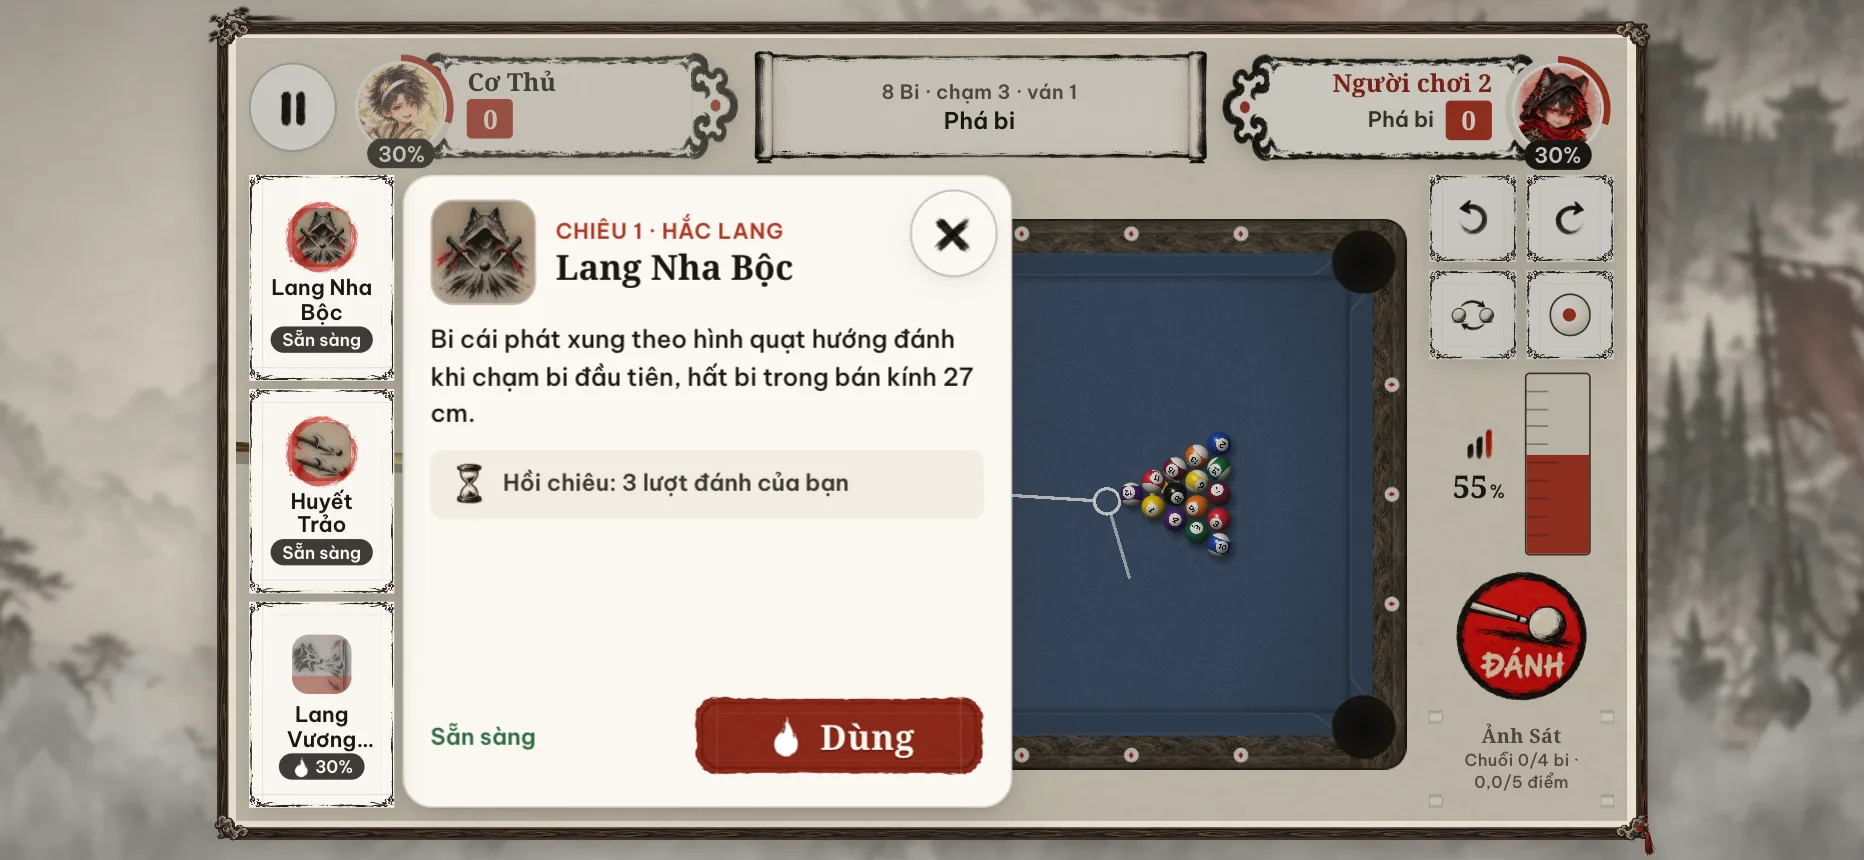
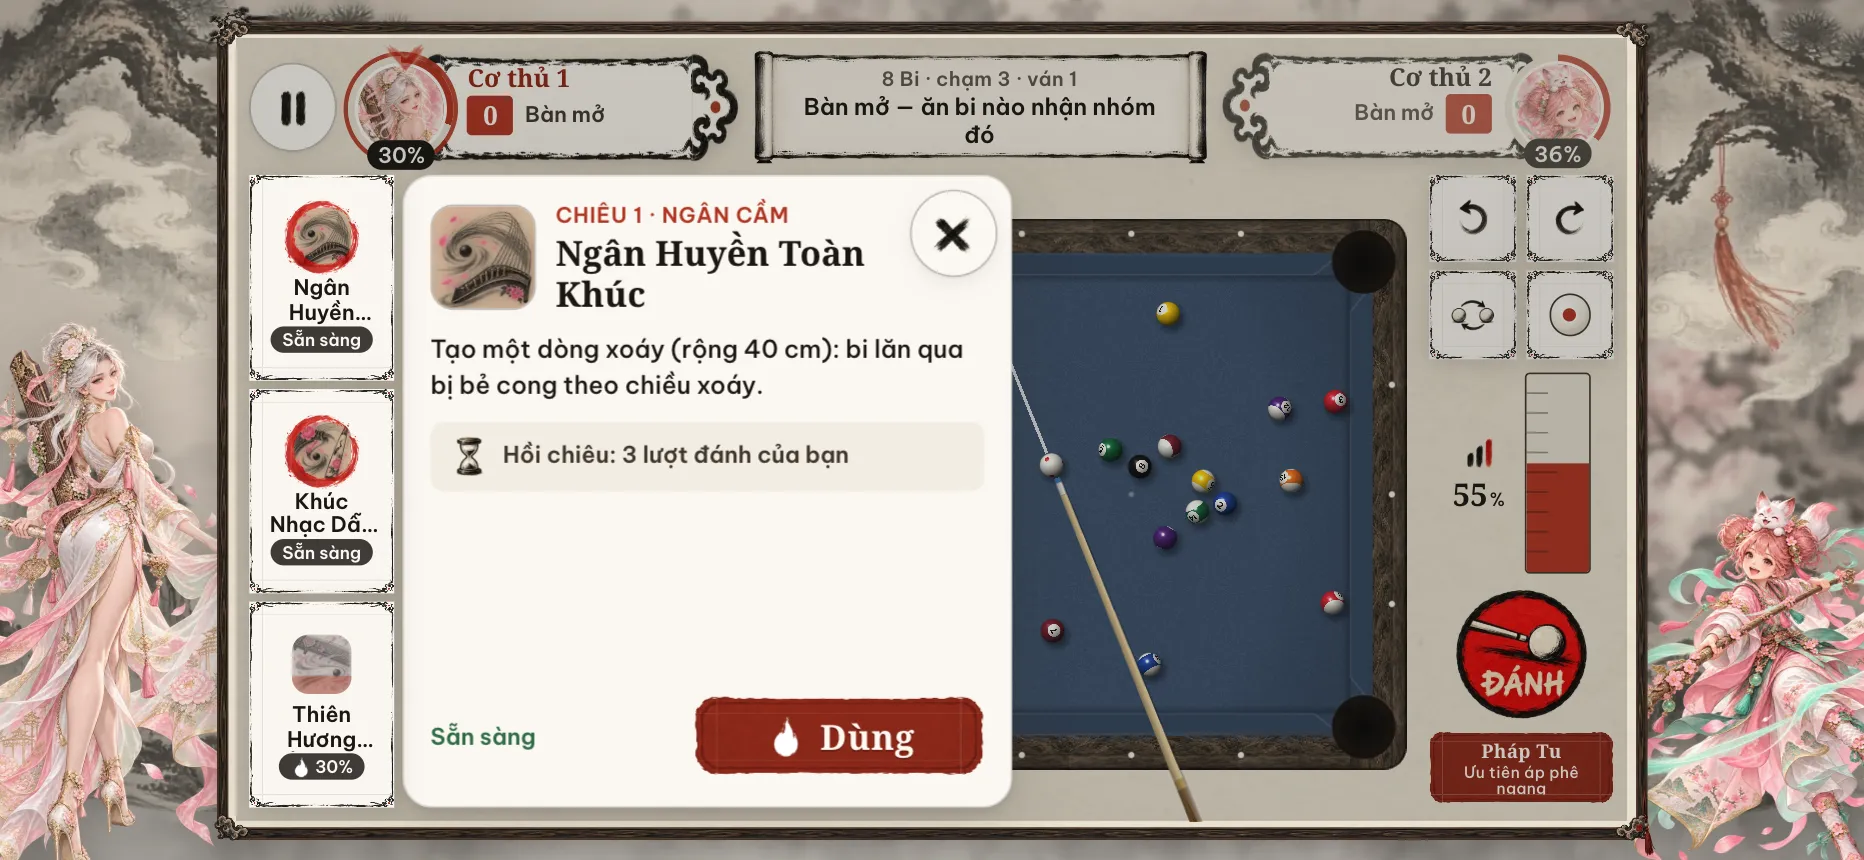
docs: retake every README screenshot with Ngân Cầm as the champion
Note in AGENTS.md that illustrations always use Ngân Cầm, set only in the
screenshot browser's profile, never in game defaults.

diff --git a/AGENTS.md b/AGENTS.md
@@ -57,6 +57,10 @@ npm run gen:challenges
 
 Use the loader in `src/platform/preload.ts`: art lives in the lasting `art` cache with a content revision per file; the first launch downloads the whole set, builds with changed art refetch only those files, data saver limits it to the core, menus fill gaps when idle, and matches check and decode their champions. Never key art caches by build. PWA updates apply from menus or on leaving the stage; preserve that match boundary. Outside a match, a new build blocks the menus from the moment it starts downloading, so nobody keeps playing an old build. `skin.css` loads last; preserve reduced-motion handling. Tiên Đạo enables skills/passives/terrain; Cổ Điển and challenges disable them. Energy is +6 per shot plus +11 per point of shot score (`src/core/shot-score.ts`); Ảnh Sát needs a run of ≥4 balls worth ≥5 points. A rack won by the winner's own clean shot plays Kết liễu (`champions/{id}/finisher.webp`) in every mode except Luyện Cơ and Luyện thế. The renderer caps canvas density at 2× and about 3.6 MP; per-frame HUD code must not force layout (use `uiOrigin()`). Menu names: Hành trình, Luận Cơ, Song Đấu, Luyện Cơ (graded drills), Tàng Các (owned champions, cues, tables, plus Cơ Tiên Lục as the Vùng đất/Hệ/Luật tabs), Cơ Tiên Truyện, Luyện thế (pick a drill or a saved position, arrange it from the ball tray, shoot freely, Đánh lại takes the last shot back; saved positions live in `cotien.practice.v1`, sanitized in `src/game/practice.ts`).
 
+## Screenshots
+
+README and docs screenshots always use **Ngân Cầm** (`ngancam`) as the player's champion (home, setup screens, matches, skill and ultimate cards, Kết liễu, Tàng Các and the champion page). This only applies to the screenshot browser's profile; never change game defaults for it.
+
 ## Current controls
 
 Aim by dragging/tapping the table or the two rotation buttons. Holding or dragging the small cue-ball button opens a large ball to steer spin; tapping it opens the precise sheet (draggable point on the large ball, presets). Tap the power bar to set a level, drag to fine-tune, then tap ĐÁNH; tapping a ball on the table names it; announcements close on any tap or their ✕, and the Thông báo giữa bàn setting (Settings and pause menu) hides them except fouls and rack wins; pocket calls show in the objective plate and nothing sits on the rails; nine- and ten-ball show the next two balls; holding ĐÁNH charges an oscillating meter, sliding away cancels. Ball-in-hand uses drag/tap or the round painted direction pad, Ngắm thử / Dời bi, then ĐẶT BI. In Luyện thế a tap on a ball names it, a drag only moves it. The active player's portrait carries a bobbing turn arrow; each card shows a ball tray (eight-ball: the whole group, balls still on the table faded). Leaving a match asks for confirmation. Song Đấu lets each player set name, owned champion (never the same as the other) and cue, plus the table. The pause menu shows the score, three quick switches (sound, music, announcements) and one column of actions. Preserve the three champion-specific painted skill icons and detail-before-use flow. The outer frame excludes safe areas once; touch-target tokens compensate for DOM scale. Verify rendered sizes. Cue elevation in the spin sheet drives physical 2.5D jumps; preserve off-table rule handling. Ultimate presentation waits for ĐÁNH, then cut-in → table FX → cue strike → simulation.

diff --git a/README.md b/README.md
@@ -55,15 +55,15 @@ dụng (PWA), chơi offline.
 
 ### Hình ảnh trong game
 
-Ảnh chụp bằng Chromium giả lập cảm ứng ở 932×430 CSS pixel (màn hình lớn: 1280×800); game giữ khung 16:9 và scale đều theo màn hình.
+Ảnh chụp bằng Chromium ở 932×430 CSS pixel (màn hình lớn: 1280×800), tướng đại diện là Ngân Cầm; game giữ khung 16:9 và scale đều theo màn hình.
 
 | Trang chủ | Luận Cơ |
 | --- | --- |
 | ![Trang chủ](docs/screenshots/trang-chu.webp) | ![Chọn trận Luận Cơ](docs/screenshots/luan-co.webp) |
 | Song Đấu | |
 | ![Song Đấu: mỗi bên chọn tướng, tên và cơ](docs/screenshots/song-dau.webp) | |
-| Trận đấu · lượt, khay bi, thông báo | Chiêu thức |
-| ![Trận đấu: mũi tên chỉ lượt, khay bi đã ăn và dải thông báo](docs/screenshots/tran-dau.webp) | ![Thẻ chiêu thức](docs/screenshots/dat-chieu.webp) |
+| Trận đấu · mũi tên chỉ lượt | Chiêu thức |
+| ![Trận đấu: mũi tên son trên chân dung người tới lượt](docs/screenshots/tran-dau.webp) | ![Thẻ chiêu thức](docs/screenshots/dat-chieu.webp) |
 | Tuyệt chiêu | Kết liễu |
 | ![Thẻ tuyệt chiêu](docs/screenshots/tuyet-chieu.webp) | ![Hiệu ứng kết liễu khi thắng ván](docs/screenshots/ket-lieu.webp) |
 | Tạm dừng | Luyện thế · chọn thế |
